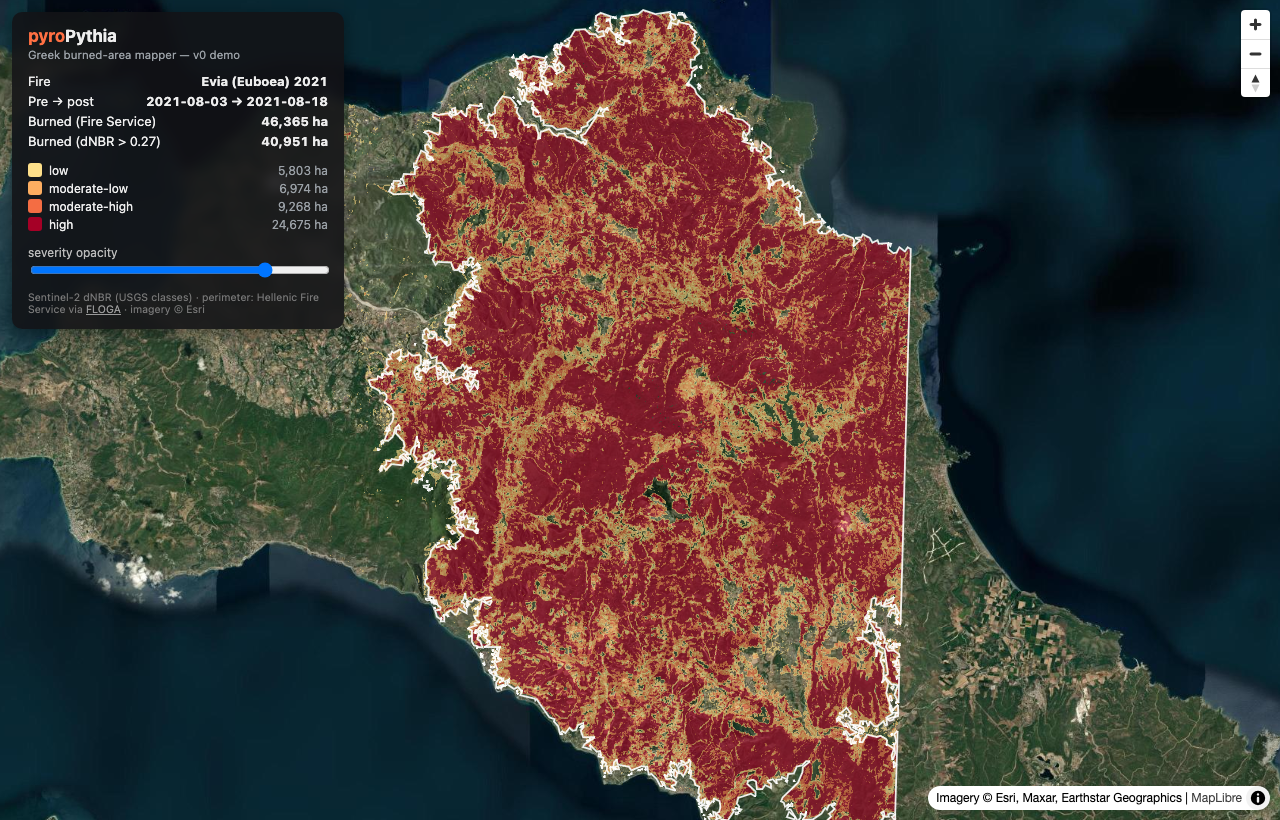
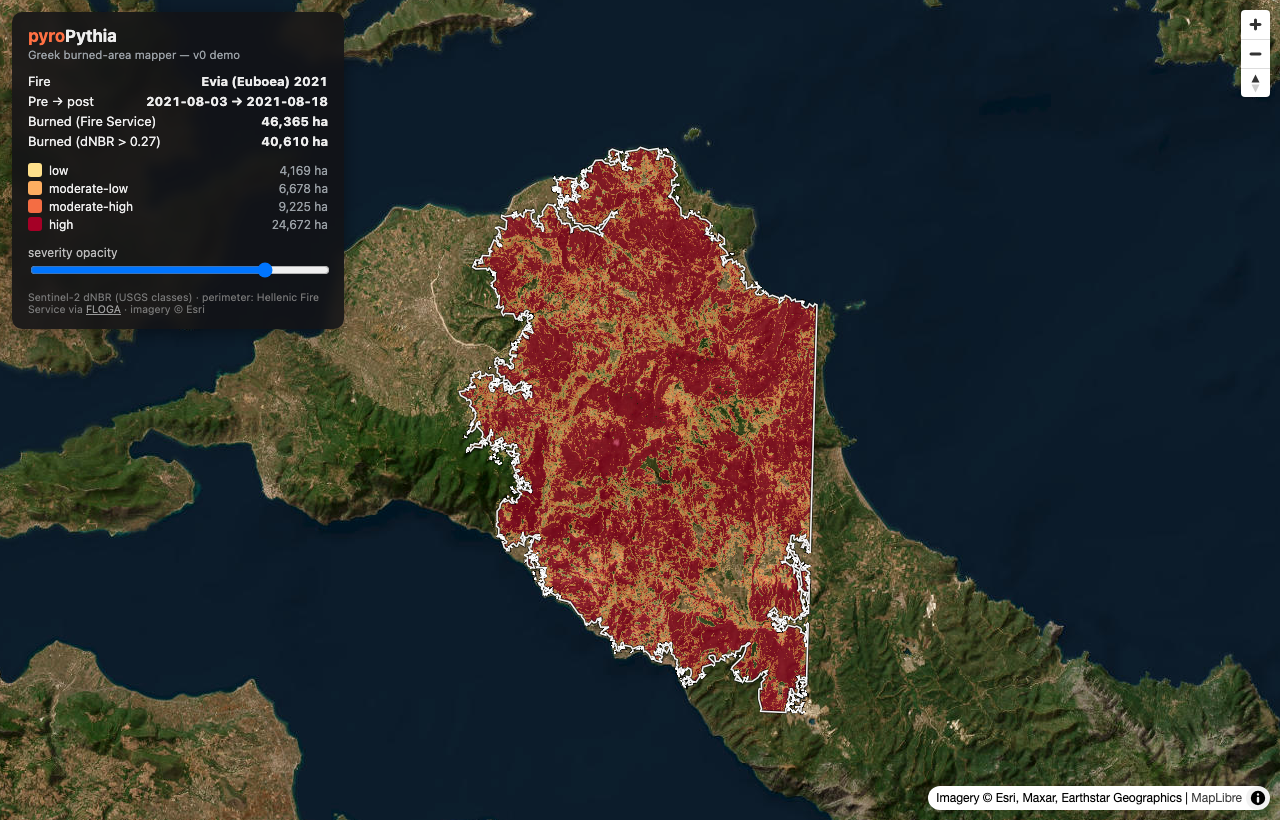
Map iteration: mask severity to fire zone, cased perimeter, honest stats
Severity clipped to perimeter+500m (BAER practice — scene-wide dNBR
speckle read as bugs and cut off at crop edges); "low" class rendered
fainter (below burned threshold); perimeter gets dark casing; dNBR
hectares now counted within the fire zone to match what's painted.
URL hash navigation for deep links.

diff --git a/web/index.html b/web/index.html
@@ -67,6 +67,7 @@ const map = new maplibregl.Map({
   },
   center: [23.3, 38.9],
   zoom: 10,
+  hash: true,
   preserveDrawingBuffer: true,
 });
 map.addControl(new maplibregl.NavigationControl(), "top-right");
@@ -76,7 +77,7 @@ async function load() {
   const sevBounds = (await (await fetch("data/evia_severity.json")).json()).bounds;
   const [w, s, e, n] = sevBounds;
 
-  map.jumpTo({ center: meta.center, zoom: 10.6 });
+  if (!location.hash) map.jumpTo({ center: meta.center, zoom: 10.6 });
 
   map.addSource("severity", {
     type: "image",
@@ -87,8 +88,10 @@ async function load() {
                  paint: { "raster-opacity": 0.8, "raster-resampling": "nearest" } });
 
   map.addSource("perimeter", { type: "geojson", data: "data/evia_perimeter.geojson" });
+  map.addLayer({ id: "perimeter-casing", type: "line", source: "perimeter",
+                 paint: { "line-color": "#000000", "line-width": 3.4, "line-opacity": 0.65 } });
   map.addLayer({ id: "perimeter", type: "line", source: "perimeter",
-                 paint: { "line-color": "#ffffff", "line-width": 1.8, "line-opacity": 0.9 } });
+                 paint: { "line-color": "#ffffff", "line-width": 1.6, "line-opacity": 0.95 } });
 
   const total = Object.values(meta.severity_ha).reduce((a, b) => a + b, 0);
   document.getElementById("stats").innerHTML = `

diff --git a/scripts/export_web_layers.py b/scripts/export_web_layers.py
@@ -62,6 +62,15 @@ def main() -> None:
             continue
         sev[valid & (dnbr > lo) & (dnbr <= hi)] = i + 1
 
+    # burn-severity maps are drawn within the fire perimeter (BAER practice):
+    # scene-wide dNBR speckle (harvest, senescence) far from the fire reads
+    # as bugs on a map. Buffer ~500 m so boundary disagreement stays visible.
+    inside = label == 1
+    for _ in range(25):  # 25 px ~ 500 m box dilation
+        inside |= (np.roll(inside, 1, 0) | np.roll(inside, -1, 0)
+                   | np.roll(inside, 1, 1) | np.roll(inside, -1, 1))
+    sev[~inside] = 0
+
     # crop to the labeled fire + margin (dNBR positives elsewhere in the
     # scene — other fires, ag fields — would inflate the box)
     rows, cols = np.where(label == 1)
@@ -87,7 +96,10 @@ def main() -> None:
     lut = np.zeros((len(SEV_LABELS) + 1, 4), dtype=np.uint8)
     for i, color in enumerate(SEV_COLORS):
         r_, g_, b_, _ = to_rgba(color)
-        lut[i + 1] = [int(r_ * 255), int(g_ * 255), int(b_ * 255), 200]
+        # "low" is marginal (0.1 < dNBR <= 0.27, below the burned threshold):
+        # render it fainter so the solid painting matches the headline number
+        alpha = 110 if SEV_LABELS[i] == "low" else 210
+        lut[i + 1] = [int(r_ * 255), int(g_ * 255), int(b_ * 255), alpha]
     rgba = lut[dst]
 
     import matplotlib.image
@@ -109,7 +121,8 @@ def main() -> None:
         "name": name, "year": year, "event": event_id,
         "pre_date": attrs["pre_image_date"], "post_date": attrs["post_image_date"],
         "label_ha": round(float((label == 1).sum() * px_ha)),
-        "dnbr_ha": round(float(((dnbr > BURN_THRESHOLD) & valid).sum() * px_ha)),
+        # within the fire zone, consistent with what the map paints
+        "dnbr_ha": round(float(((dnbr > BURN_THRESHOLD) & valid & inside).sum() * px_ha)),
         "severity_ha": {SEV_LABELS[i]: round(float((sev == i + 1).sum() * px_ha))
                         for i in range(len(SEV_LABELS))
                         if SEV_LABELS[i] not in ("regrowth", "unburned")},